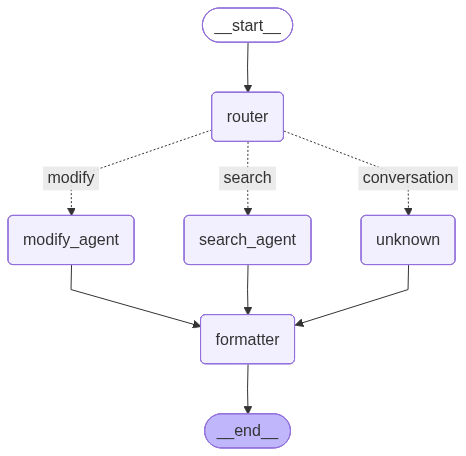
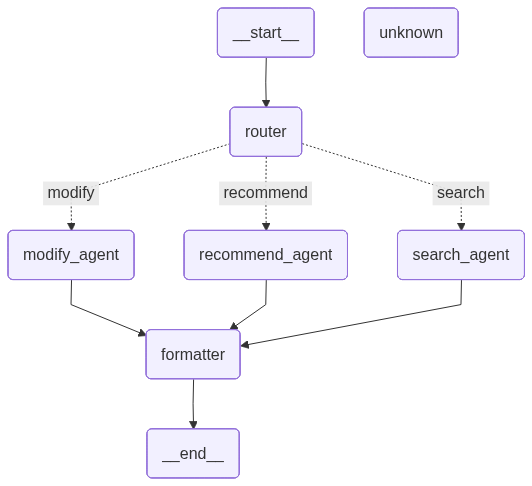
feat: add test with promptfoo and new tools

diff --git a/src/nodes/recommend_node.py b/src/nodes/recommend_node.py
@@ -1,0 +1,95 @@
+"""Nodo Recommend - Agente especializado en recomendar libros"""
+
+from langchain.agents import create_agent
+from ..llm.client import llm
+from ..graph.state import AgentState
+from ..tools.book_tools import get_read_books
+
+
+recommend_agent = create_agent(
+    model=llm,
+    tools=[get_read_books],
+    system_prompt="""Eres un agente experto en literatura y recomendaciones de libros.
+
+Tu única responsabilidad es RECOMENDAR libros que el usuario aún no ha leído.
+
+Proceso que debes seguir:
+1. Llama a get_read_books() para ver el historial de lectura del usuario en su biblioteca.
+2. Analiza el mensaje del usuario: puede mencionar libros específicos que leyó, géneros que le gustan, o pedir recomendaciones abiertas.
+3. Combina ambas fuentes (historial en DB + lo que dice el usuario) para entender sus gustos.
+4. Genera hasta 5 recomendaciones de libros que NO estén ya en su historial.
+
+Formato de respuesta obligatorio para cada recomendación:
+- **Título** — Autor
+  Género: [género]
+  Por qué te lo recomiendo: [1-2 oraciones explicando por qué encaja con sus gustos]
+
+Reglas:
+- Máximo 5 recomendaciones.
+- No recomiendes libros que ya aparecen en el historial del usuario.
+- Si el usuario menciona libros en su mensaje, tenlos en cuenta aunque no estén en la DB.
+- Prioriza libros reconocidos y de calidad dentro del género o estilo preferido.
+- Si el usuario no da contexto suficiente, usa el historial de la DB para inferir gustos.
+- Si no hay historial y el usuario no da pistas, pide más contexto antes de recomendar.""",
+)
+
+
+def recommend_node(state: AgentState) -> AgentState:
+    """
+    Nodo que genera recomendaciones de libros personalizadas.
+
+    Flujo:
+    1. Llama a get_read_books() para obtener el historial del usuario
+    2. Analiza el mensaje del usuario y el historial
+    3. Genera hasta 5 recomendaciones que no estén ya en la biblioteca
+
+    Args:
+        state: Estado actual del grafo con user_message
+
+    Returns:
+        Estado actualizado con intermediate_result
+    """
+    user_message = state["user_message"]
+
+    try:
+        print(f"\n[RECOMMEND_NODE] Procesando recomendación")
+        print(f"[RECOMMEND_NODE] Mensaje: '{user_message}'")
+
+        result = recommend_agent.invoke(
+            {"messages": [{"role": "user", "content": user_message}]}
+        )
+
+        messages = result["messages"]
+
+        tools_used = []
+        for msg in messages:
+            if hasattr(msg, "tool_calls") and msg.tool_calls:
+                for tool_call in msg.tool_calls:
+                    tool_info = {
+                        "name": tool_call.get("name", "unknown"),
+                        "args": tool_call.get("args", {}),
+                    }
+                    tools_used.append(tool_info)
+                    print(f"[RECOMMEND_NODE] Tool llamada: {tool_info['name']}()")
+
+        agent_response = messages[-1].content
+
+        state["intermediate_result"] = agent_response
+        state["error"] = None
+
+        if "metadata" not in state or state["metadata"] is None:
+            state["metadata"] = {}
+
+        state["metadata"]["node_executed"] = "recommend_node"
+        state["metadata"]["agent_type"] = "recommend_agent"
+        state["metadata"]["tools_used"] = tools_used
+
+        print(f"[RECOMMEND_NODE] Completado: {agent_response[:150]}...")
+
+    except Exception as e:
+        error_msg = f"Error en nodo de recomendación: {str(e)}"
+        print(f"[RECOMMEND_NODE] {error_msg}")
+        state["intermediate_result"] = "No se pudieron generar recomendaciones."
+        state["error"] = error_msg
+
+    return state

diff --git a/src/tools/book_tools.py b/src/tools/book_tools.py
@@ -1,8 +1,12 @@
 from datetime import date
+
 from langchain_core.tools import tool
 
-from ..database.book_service import book_service
+from ..database.book_service import BookService
+
 from ..database.models import BookCreate, BookUpdate
+
+book_service = BookService()
 
 
 @tool
@@ -158,7 +162,11 @@ def list_books(status: str = None, author: str = None, title: str = None) -> str
         # Filtrar por título si se especifica
         if title and books:
             title_lower = title.lower()
-            books = [book for book in books if book.title and title_lower in book.title.lower()]
+            books = [
+                book
+                for book in books
+                if book.title and title_lower in book.title.lower()
+            ]
 
         if not books:
             filters = []
@@ -177,7 +185,11 @@ def list_books(status: str = None, author: str = None, title: str = None) -> str
             result += f"    Autor: {book.author or 'No especificado'}\n"
             result += f"    Estado: {book.status or 'No especificado'}\n"
             if book.description:
-                desc = book.description[:100] + "..." if len(book.description) > 100 else book.description
+                desc = (
+                    book.description[:100] + "..."
+                    if len(book.description) > 100
+                    else book.description
+                )
                 result += f"    Descripción: {desc}\n"
             result += "\n"
 
@@ -186,5 +198,50 @@ def list_books(status: str = None, author: str = None, title: str = None) -> str
         return f"Error al listar libros: {str(e)}"
 
 
+@tool
+def get_read_books() -> str:
+    """Obtiene el historial de libros leídos o en progreso del usuario desde la base de datos.
+
+    Usa esta herramienta para conocer qué libros ha leído el usuario antes de hacer recomendaciones.
+    Retorna libros con estado 'completed' (terminados) y 'reading' (en progreso).
+
+    Returns:
+        Lista formateada de libros leídos con título, autor y tipo
+    """
+    try:
+        completed = book_service.list_books(status="completed")
+        reading = book_service.list_books(status="reading")
+        all_read = completed + reading
+
+        if not all_read:
+            return "El usuario no tiene libros registrados como leídos o en progreso en su biblioteca."
+
+        result = f"Historial de lectura del usuario ({len(all_read)} libro(s)):\n\n"
+
+        if completed:
+            result += "📚 Libros terminados:\n"
+            for book in completed:
+                result += f"  - {book.title}"
+                if book.author:
+                    result += f" (de {book.author})"
+                if book.type:
+                    result += f" [{book.type}]"
+                result += "\n"
+
+        if reading:
+            result += "\n📖 Libros en progreso:\n"
+            for book in reading:
+                result += f"  - {book.title}"
+                if book.author:
+                    result += f" (de {book.author})"
+                if book.type:
+                    result += f" [{book.type}]"
+                result += "\n"
+
+        return result
+    except Exception as e:
+        return f"Error al obtener el historial de lectura: {str(e)}"
+
+
 # Lista de todas las tools disponibles para exportar
-book_tools = [create_book, get_book, update_book, delete_book, list_books]
+book_tools = [create_book, get_book, update_book, delete_book, list_books, get_read_books]

diff --git a/src/graph/agent_graph.py b/src/graph/agent_graph.py
@@ -2,6 +2,7 @@ from langgraph.graph import END, StateGraph
 
 from ..nodes.formatter_node import formatter_node
 from ..nodes.modify_node import modify_node
+from ..nodes.recommend_node import recommend_node
 from ..nodes.router_node import router_node
 from ..nodes.search_node import search_node
 from .state import AgentState
@@ -43,6 +44,7 @@ graph = StateGraph(AgentState)
 graph.add_node("router", router_node)
 graph.add_node("search_agent", search_node)
 graph.add_node("modify_agent", modify_node)
+graph.add_node("recommend_agent", recommend_node)
 graph.add_node("formatter", formatter_node)
 
 
@@ -68,17 +70,16 @@ graph.add_conditional_edges(
     "router",
     route_decision,
     {
-        "search": "search_agent",          # Intent "search" → nodo "search_agent"
+        "search": "search_agent",
         "modify": "modify_agent",
-        "recommend": "unknown",            # TODO: Cambiar a "recommend_agent" cuando se implemente
-        "conversation": "unknown",         # TODO: Cambiar a "conversation_agent" cuando se implemente
-        "unknown": "unknown",              # Intent desconocido → nodo "unknown"
+        "recommend": "recommend_agent",
     },
 )
 
 # 5. Todos los nodos van al formatter
 graph.add_edge("search_agent", "formatter")
 graph.add_edge("modify_agent", "formatter")
+graph.add_edge("recommend_agent", "formatter")
 graph.add_edge("unknown", "formatter")
 
 # 6. Formatter va al final

diff --git a/src/database/book_service.py b/src/database/book_service.py
@@ -52,4 +52,3 @@ class BookService:
             return session.exec(query).all()
 
 
-book_service = BookService()
